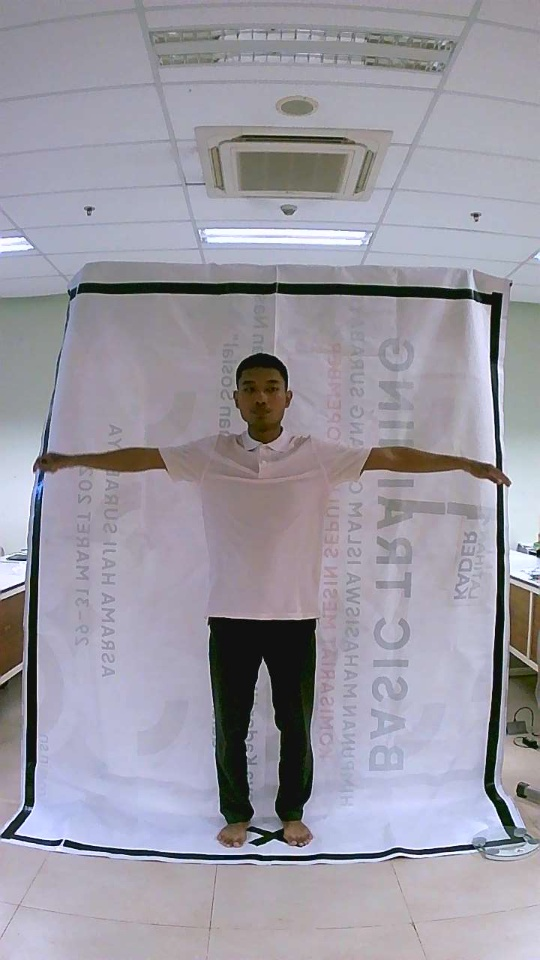
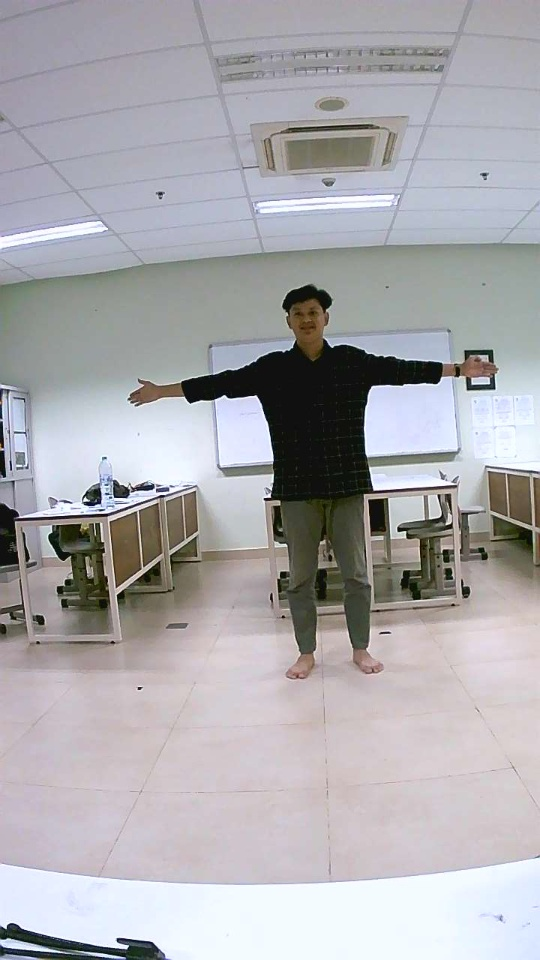
connect to database

diff --git a/app.py b/app.py
@@ -2,12 +2,14 @@ import sys
 import cv2
 import enum
 import socket
+import datetime
 from threading import Thread
 from PyQt5.QtWidgets import QApplication, QMainWindow, QPushButton, QVBoxLayout, QLabel, QWidget, QHBoxLayout, QSplitter, QSizePolicy, QGroupBox
 from PyQt5.QtCore import QTimer, Qt, pyqtSignal, QObject
 from PyQt5.QtGui import QImage, QPixmap, QPainter, QPen
+from PyQt5.QtWidgets import QLineEdit, QDateEdit
 from module.style import AppStyle
-from module.mysql_client import MysqlClient, DatabaseData
+from module.mysql_client import DatabaseHandler, DatabaseData
 from module import pose as ps
 from module import crop as cr
 from module import calib as cl
@@ -22,6 +24,7 @@ class State(enum.Enum):
     POSE = 2
     COUNT = 3
     END = 4
+    PUBLISH = 5
 
 # Calibration file name
 calib_file_name = './data/color.txt'
@@ -63,12 +66,13 @@ class CameraApp(QMainWindow):
         super().__init__()
 
         self.current_state = State.INIT
+        self.date = 0
 
         self.capture = cv2.VideoCapture(1)
         self.capture.set(cv2.CAP_PROP_FRAME_WIDTH, 1280)
         self.capture.set(cv2.CAP_PROP_FRAME_HEIGHT, 1920)
 
-        self.mysql_client = MysqlClient("192.168.1.101", "a", "test_password", "bodydata")
+        self.mysql_client = DatabaseHandler("localhost", "root", "", "database-antropometri")
 
         self.timer = QTimer()
         self.timer.timeout.connect(self.update_frame)
@@ -101,7 +105,7 @@ class CameraApp(QMainWindow):
         self.thigh_lenght = 0
         self.leg_lenght = 0
 
-        self.save = 0
+        self.weight_pub = 0
 
     def initUI(self):
         self.setWindowTitle("State Machine Camera App")
@@ -114,6 +118,29 @@ class CameraApp(QMainWindow):
         self.sidebar.setFixedWidth(300)
         sidebar_layout = QVBoxLayout()
 
+        # Input fields
+        input_group = QGroupBox("User Information")
+        input_layout = QVBoxLayout()
+        self.no_label = QLabel("No:")
+        self.no_input = QLineEdit()
+        self.name_label = QLabel("Name:")
+        self.name_input = QLineEdit()
+        self.born_label = QLabel("Date of Birth:")
+        self.born_input = QDateEdit()
+        self.born_input.setCalendarPopup(True)
+        self.born_input.setDisplayFormat("yyyy-MM-dd")
+
+        input_layout.addWidget(self.no_label)
+        input_layout.addWidget(self.no_input)
+        input_layout.addWidget(self.name_label)
+        input_layout.addWidget(self.name_input)
+        input_layout.addWidget(self.born_label)
+        input_layout.addWidget(self.born_input)
+
+        input_group.setLayout(input_layout)
+        sidebar_layout.addWidget(input_group)
+
+
         # Buttons
         self.btn_init = QPushButton("INIT", self)
         # self.btn_calib = QPushButton("CALIB", self)
@@ -123,10 +150,10 @@ class CameraApp(QMainWindow):
         self.btn_count = QPushButton("COUNT", self)
         self.btn_quit = QPushButton("QUIT", self)
 
-        self.save_btn = QPushButton("Save to Database")
+        self.save_btn = QPushButton("PUBLISH")
         self.save_btn.setObjectName("save_btn")
         # self.save_btn.setVisible(False)
-        self.save_btn.pressed.connect(self.__save_db)
+        self.save_btn.clicked.connect(self.__save_db)
 
         self.btn_init.clicked.connect(self.init_state)
         # self.btn_calib.clicked.connect(self.calib_state)
@@ -143,6 +170,7 @@ class CameraApp(QMainWindow):
         button_box.addWidget(self.btn_save_weight)
         button_box.addWidget(self.btn_pose)
         button_box.addWidget(self.btn_count)
+        button_box.addWidget(self.save_btn)
         button_box.addWidget(self.btn_quit)
 
         button_group = QGroupBox("Controls")
@@ -197,11 +225,11 @@ class CameraApp(QMainWindow):
         frame = cv2.resize(frame, (540, 960))
 
         if self.current_state == State.INIT:
-            self.height_lenght = 0
-            self.hand_lenght = 0
-            self.shoulder_lenght = 0
-            self.thigh_lenght = 0 
-            self.leg_lenght = 0
+            # self.height_lenght = 0
+            # self.hand_lenght = 0
+            # self.shoulder_lenght = 0
+            # self.thigh_lenght = 0 
+            # self.leg_lenght = 0
             
             image = QImage(frame, frame.shape[1], frame.shape[0], QImage.Format_BGR888)
             self.camera_label.setPixmap(QPixmap.fromImage(image))
@@ -238,6 +266,11 @@ class CameraApp(QMainWindow):
             if self.height_lenght != 0 and self.hand_lenght != 0 and self.shoulder_lenght != 0 and self.thigh_lenght != 0 and self.leg_lenght != 0:
                 self.current_state = State.INIT
 
+        # elif self.current_state == State.PUBLISH:
+        #     if self.__save_db():
+        #         self.current_state = State.INIT
+
+
     def mousePressEvent(self, event):
         if self.current_state == State.CALIB and event.button() == Qt.LeftButton:
             self.drawing = True
@@ -270,10 +303,10 @@ class CameraApp(QMainWindow):
 
     def update_weight_label(self, weight):
         if self.weight_saved == False:
-            self.save = weight
+            self.weight_pub = weight
             self.weight_label.setText(f"Weight: {weight} kg")
         else:
-            self.weight_label.setText(f"Weight: {self.save} kg")
+            self.weight_label.setText(f"Weight: {self.weight_pub} kg")
 
     def init_state(self):
         self.weight_saved = False
@@ -329,10 +362,28 @@ class CameraApp(QMainWindow):
         self.capture.release()
         cv2.destroyAllWindows()
 
+    def publish(self):
+        self.current_state = State.PUBLISH
+
     def __save_db(self):
-        sending_data = DatabaseData(self.current_height, self.current_weight)
-        self.mysql_client.upload_to_mysql(sending_data, "body_size")
-        print(f"Saving to DB: {sending_data.height} m, {sending_data.weight} kg")
+        self.date = datetime.datetime.now()
+        sending_data = DatabaseData(
+            no=self.no_input.text(),
+            nama=self.name_input.text(),
+            tanggal_lahir=self.born_input.text(),
+            tinggi_badan=int(self.height_lenght),
+            berat_badan=int(self.weight_pub),
+            panjang_tangan=int(self.hand_lenght),
+            panjang_kaki=int(self.leg_lenght),
+            panjang_paha=int(self.thigh_lenght),
+            lebar_paha=0,
+            lebar_dada=int(self.shoulder_lenght),
+            date=self.date
+        )
+        print(f"h:{self.height_lenght} w:{self.weight_pub} ")
+        if self.mysql_client.upload_to_mysql(sending_data, "pengukuran"):
+            return True
+        return False
 
 if __name__ == "__main__":
     app = QApplication(sys.argv)

diff --git a/test.py b/test.py
@@ -74,7 +74,6 @@ class DatabaseHandler:
             # Simpan perubahan
             conn.commit()
             print("Data berhasil dimasukkan ke database.")
-            keluar = True
         except Error as e:
             print(f"Error saat mengunggah ke MySQL: {e}")
         finally:
@@ -84,5 +83,27 @@ class DatabaseHandler:
                     cursor.close()  # Pastikan cursor ditutup
                 conn.close()
                 print("Koneksi MySQL ditutup.")
-                return True
-        return False
+
+
+# Contoh Penggunaan
+if __name__ == "__main__":
+    # Konfigurasi koneksi database
+    db_handler = DatabaseHandler(host="localhost", user="root", password="", database="database-antropometri")
+
+    # Data contoh
+    sample_data = DatabaseData(
+        no=None,
+        nama="John Doe",
+        tanggal_lahir="1990-01-01",
+        tinggi_badan=175.5,
+        berat_badan=70.3,
+        panjang_tangan=60.2,
+        panjang_kaki=90.1,
+        panjang_paha=50.3,
+        lebar_paha=25.4,
+        lebar_dada=40.5,
+        date="2025-01-08"
+    )
+
+    # Unggah data
+    db_handler.upload_to_mysql(sample_data)
